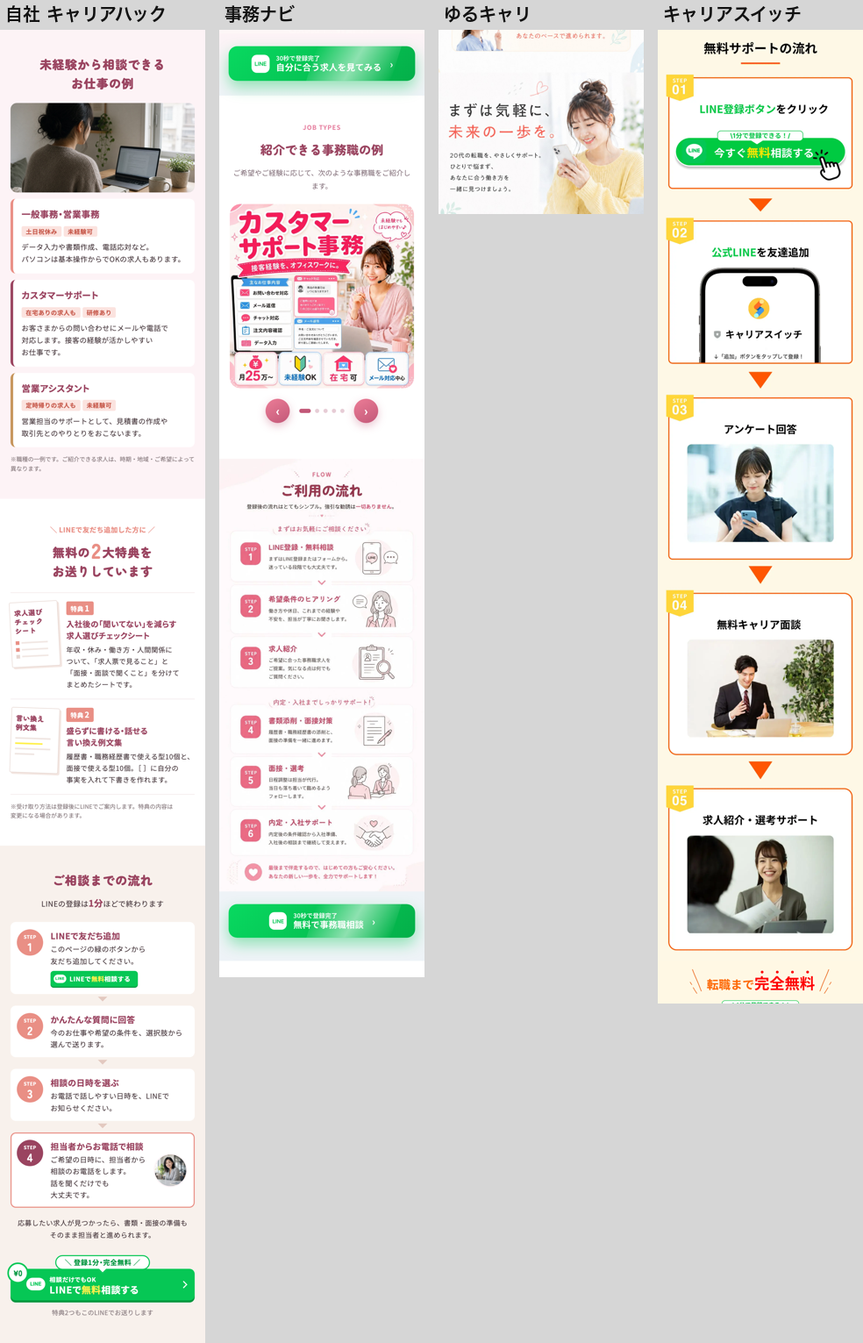
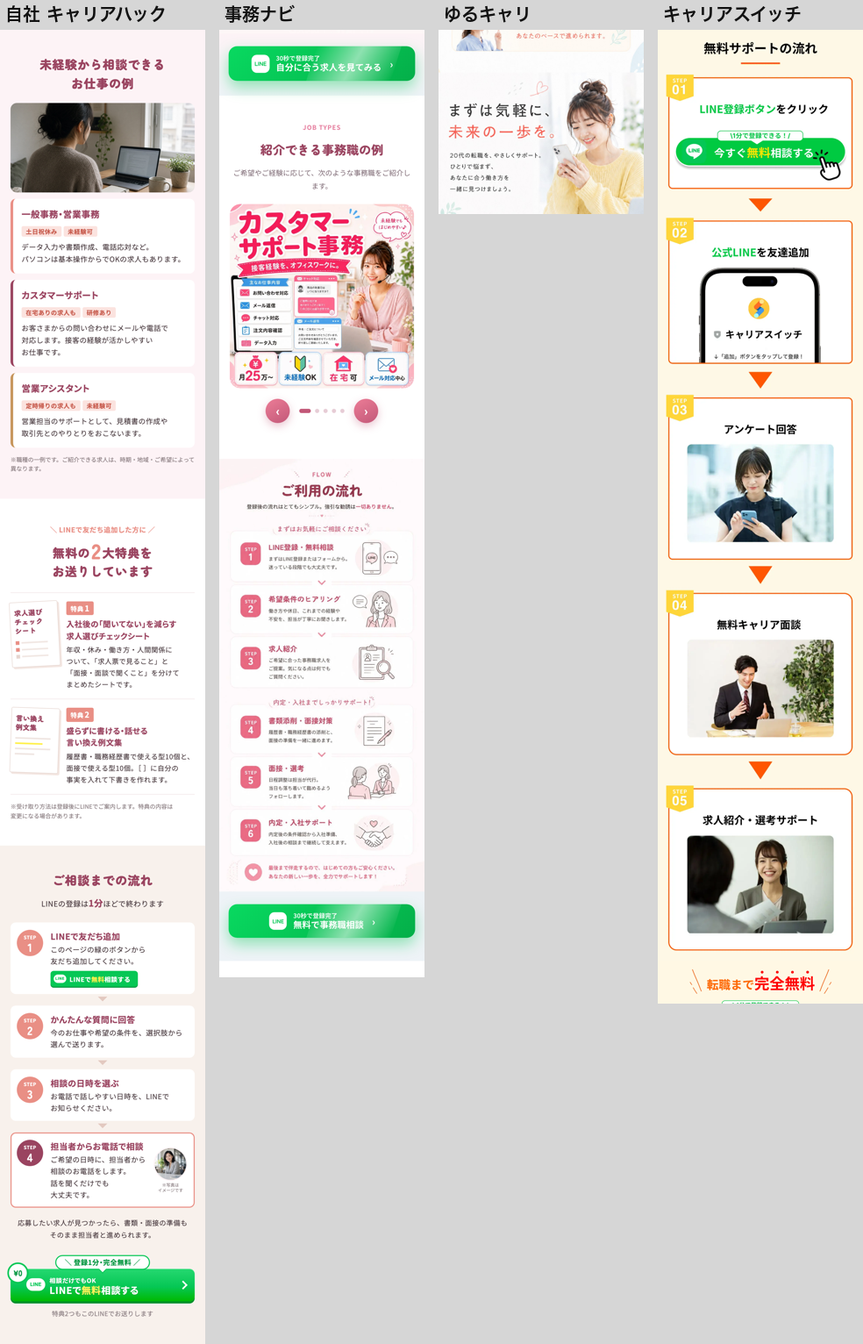
Round 4 (30/30): apply PM review — brighter gradient LINE button, ribbon medals, FV photo blended into pink, header LINE button, image notes, refreshed finals

diff --git a/docs/style.css b/docs/style.css
@@ -41,7 +41,11 @@ h1, h2, h3, .cta-tab, .btn-tx, .medals, .bubbles, .solve, .rn, .step, .g-no, sum
 .top { height: 52px; display: flex; align-items: center; justify-content: space-between; padding: 0 14px 0 16px;
   border-bottom: 1px solid var(--rule); background: #fff; }
 .logo img { width: 142px; height: auto; }
-.top-copy { font-size: 10.5px; line-height: 1.45; color: var(--rose); font-weight: 700; text-align: right; letter-spacing: .02em; }
+/* 事務ナビ型の小さいLINEボタン（実測 215x40 r14 → 自社は幅を詰めて 34px） */
+.top-btn { display: inline-flex; align-items: center; gap: 5px; height: 34px; padding: 0 12px 0 7px; border-radius: 17px;
+  background: linear-gradient(#22d36c, #06c755 60%, #03b94c); box-shadow: 0 2px 0 #029a3c; color: #fff; text-decoration: none;
+  font-size: 12.5px; font-weight: 700; letter-spacing: .02em; }
+.top-btn i { font: 900 7.5px/18px Arial, sans-serif; font-style: normal; color: var(--line); background: #fff; border-radius: 9px; width: 28px; text-align: center; }
 
 /* ---------- 見出し共通 ---------- */
 section { padding: 48px 20px; }
@@ -60,19 +64,30 @@ section { padding: 48px 20px; }
   border: 1px solid #efc9cf; border-radius: 99px; padding: 2px 16px; letter-spacing: .06em; }
 .fv-h { font-family: var(--maru); font-weight: 900; font-size: 35px; line-height: 1.32; color: var(--rose); margin-top: 8px; letter-spacing: .05em; }
 .fv-h em { color: #e0604f; font-size: 44px; background: linear-gradient(transparent 70%, var(--mk) 70%); padding: 0 2px; }
-.fv-sub { font-size: 13px; line-height: 1.6; margin-top: 6px; font-weight: 700; color: var(--ink); }
-.fv-photo { margin-top: 12px; height: 262px; overflow: hidden; clip-path: ellipse(92% 100% at 50% 100%); }
-.fv-photo img { width: 100%; height: 100%; object-fit: cover; object-position: 50% 22%; }
-.medals { display: flex; justify-content: center; gap: 8px; margin-top: -44px; position: relative; padding: 0 14px; }
-.medals li { width: 106px; height: 106px; border-radius: 50%; background: #fff; position: relative; display: flex;
-  flex-direction: column; align-items: center; justify-content: center; color: var(--rose);
-  box-shadow: 0 0 0 3px #fff, 0 0 0 4px #e8cfa6, 0 3px 8px rgba(154, 68, 96, .14); }
-.medals .ml { position: absolute; width: 16px; height: 34px; left: 6px; top: 40px; color: var(--gold); opacity: .85; }
-.medals .ml.r { left: auto; right: 6px; transform: scaleX(-1); }
+.fv-body { position: relative; height: 262px; margin-top: 2px; }
+/* 写真は淡ピンク地に溶かす（左と下をマスクでフェード、灰色の壁は乗算でピンク寄りに） */
+.fv-photo { position: absolute; right: -18px; top: -38px; width: 268px; height: 330px; z-index: 0; mix-blend-mode: multiply;
+  -webkit-mask-image: linear-gradient(to right, transparent 0, #000 34%), linear-gradient(to bottom, transparent 0, #000 22%, #000 72%, transparent 100%);
+  -webkit-mask-composite: source-in;
+  mask-image: linear-gradient(to right, transparent 0, #000 34%), linear-gradient(to bottom, transparent 0, #000 22%, #000 72%, transparent 100%);
+  mask-composite: intersect; }
+.fv-photo img { width: 100%; height: 100%; object-fit: cover; object-position: 46% 12%; }
+.fv-left { position: relative; z-index: 1; text-align: left; padding: 30px 0 0 16px; }
+.fv-lbl { display: inline-block; background: #fff; border-left: 4px solid var(--coral); font-size: 13px; font-weight: 700; padding: 1px 10px; }
+.fv-bar { display: table; margin-top: 6px; background: var(--rose); color: #fff; font-family: var(--maru); font-weight: 900; font-size: 19px;
+  line-height: 1.45; padding: 2px 12px 3px; letter-spacing: .04em; }
+.fv-bar em { color: var(--mk); }
+.fv-tags { margin-top: 12px; font-family: var(--maru); font-weight: 900; font-size: 16px; line-height: 1.75; color: var(--rose); }
+.fv-tags li::after { content: ' ✓'; color: var(--coral); }
+.medals { display: flex; justify-content: center; gap: 2px; margin-top: -46px; position: relative; z-index: 2; padding: 0 8px; }
+.medals li { position: relative; width: 120px; height: 134px; display: flex; flex-direction: column; align-items: center;
+  padding-top: 31px; color: var(--rose); }
+.medals .md { position: absolute; inset: 0; width: 120px; height: 134px; z-index: -1; filter: drop-shadow(0 2px 3px rgba(154, 68, 96, .15)); }
 .medals span { font-size: 11px; font-weight: 700; line-height: 1.2; letter-spacing: 0; color: var(--ink); }
-.medals b { font-family: var(--maru); font-weight: 900; font-size: 34px; line-height: 1.05; color: #e0604f; }
-.medals b small { font-size: 14px; }
-.medals b.s { font-size: 15px; line-height: 1.25; margin-top: 4px; }
+.medals b { font-family: var(--maru); font-weight: 900; font-size: 36px; line-height: 1.05; color: #e0604f; margin-top: 1px; }
+.medals b small { font-size: 15px; }
+.medals b.s { font-size: 16px; line-height: 1.2; margin-top: 5px; letter-spacing: 0; }
+.fv-photo-note { position: absolute; right: 8px; bottom: 52px; font-size: 9px; line-height: 1.5; color: var(--mute); z-index: 1; background: rgba(255,255,255,.85); padding: 0 5px; border-radius: 3px; }
 
 /* ---------- CTA（競合実測: 高さ60・#06C755・角丸10・下影4px） ---------- */
 .cta { padding: 0 16px; margin-top: 20px; text-align: center; }
@@ -80,20 +95,20 @@ section { padding: 48px 20px; }
   background: #fff; border: 2px solid var(--line); border-radius: 99px; padding: 1px 16px; margin-bottom: -10px; letter-spacing: .04em; }
 .cta-tab::after { content: ''; position: absolute; left: 50%; bottom: -7px; margin-left: -6px; width: 10px; height: 10px;
   background: #fff; border-right: 2px solid var(--line); border-bottom: 2px solid var(--line); transform: rotate(45deg); }
-.btn { position: relative; display: flex; align-items: center; height: 60px; padding: 4px 34px 0 74px; border-radius: 10px;
-  background: var(--line); color: #fff; text-decoration: none; box-shadow: 0 4px 0 var(--line-d); text-align: left;
-  -webkit-tap-highlight-color: transparent; }
-.btn:active { transform: translateY(3px); box-shadow: 0 1px 0 var(--line-d); }
+.btn { position: relative; display: flex; align-items: center; height: 62px; padding: 4px 34px 0 74px; border-radius: 10px;
+  background: linear-gradient(#25d870 0%, #06c755 55%, #00b900 100%); color: #fff; text-decoration: none; text-align: left;
+  box-shadow: 0 4px 0 #008f2a, inset 0 1px 0 rgba(255, 255, 255, .35); -webkit-tap-highlight-color: transparent; }
+.btn:active { transform: translateY(3px); box-shadow: 0 1px 0 #008f2a; }
 .btn-yen { position: absolute; left: -6px; top: -12px; width: 40px; height: 40px; border-radius: 50%; background: #fff;
   border: 3px solid var(--line); color: var(--line-d); font: 900 15px/34px var(--maru); text-align: center; letter-spacing: 0; }
 .btn-ic { position: absolute; left: 30px; top: 50%; margin-top: -13px; width: 36px; height: 24px; border-radius: 12px;
   background: #fff; color: var(--line); font: 900 9.5px/24px Arial, sans-serif; text-align: center; letter-spacing: 0; }
 .btn-ic::after { content: ''; position: absolute; left: 7px; bottom: -4px; border: 4px solid transparent; border-top: 5px solid #fff; border-left-width: 3px; }
-.btn-tx { font-size: 18px; font-weight: 700; line-height: 1.25; letter-spacing: .04em; }
+.btn-tx { font-size: 18px; font-weight: 900; text-shadow: 0 1px 0 rgba(0, 110, 40, .35); line-height: 1.25; letter-spacing: .04em; }
 .btn-tx small { display: block; font-size: 11.5px; font-weight: 700; letter-spacing: .06em; }
-.btn-tx em { color: var(--mk); }
-.btn-ar { position: absolute; right: 16px; top: 50%; width: 10px; height: 10px; margin-top: -5px;
-  border-top: 2.5px solid #fff; border-right: 2.5px solid #fff; transform: rotate(45deg); }
+.btn-tx em { color: #fff35a; }
+.btn-ar { position: absolute; right: 16px; top: 50%; width: 12px; height: 12px; margin-top: -6px;
+  border-top: 3.5px solid #fff; border-right: 3.5px solid #fff; transform: rotate(45deg); }
 .cta-note { font-size: 12px; color: var(--mute); margin-top: 12px; letter-spacing: .02em; }
 .cta-wrap { background: var(--beige); padding: 36px 0 38px; text-align: center; }
 .cta-lead { font-family: var(--maru); font-weight: 900; font-size: 20px; color: var(--rose); }
@@ -112,9 +127,9 @@ section { padding: 48px 20px; }
 .bubbles .b3 { margin-right: 6px; } .bubbles .b4 { margin-left: 6px; }
 .bubbles .b5, .bubbles .b6 { background: var(--pink); }
 .bubbles .b5::after, .bubbles .b6::after { transform: rotate(-135deg); bottom: auto; top: -7px; }
-.bubbles .b3, .bubbles .b4 { margin-bottom: 118px; }
+.bubbles .b3, .bubbles .b4 { margin-bottom: 136px; }
 .bubbles b { color: var(--rose); }
-.worry-face { position: absolute; left: 50%; top: 50%; width: 132px; height: 132px; margin: -34px 0 0 -66px; border-radius: 50%;
+.worry-face { position: absolute; left: 50%; top: 50%; width: 132px; height: 132px; margin: -22px 0 0 -66px; border-radius: 50%;
   overflow: hidden; border: 4px solid #fff; box-shadow: 0 0 0 2px #efc9cf; }
 .worry-face img { width: 100%; height: 100%; object-fit: cover; object-position: 50% 30%; }
 .solve { margin: 34px 0 0; padding: 20px 10px 18px; border: 3px double #efc9cf; border-radius: 14px; text-align: center;
@@ -197,7 +212,9 @@ section { padding: 48px 20px; }
   background: var(--line); color: #fff; font-size: 12px; font-weight: 700; box-shadow: 0 2px 0 var(--line-d); }
 .mini-btn i { font: 900 7px/16px Arial, sans-serif; color: var(--line); background: #fff; border-radius: 8px; width: 24px; text-align: center; font-style: normal; }
 .mini-btn em { color: var(--mk); }
-.flow-list .adv { flex: none; width: 64px; height: 64px; border-radius: 50%; object-fit: cover; object-position: 50% 25%; align-self: center; border: 2px solid var(--pink); }
+.flow-list .adv img { flex: none; width: 64px; height: 64px; border-radius: 50%; object-fit: cover; object-position: 50% 25%; align-self: center; border: 2px solid var(--pink); }
+.flow-list .adv { flex: none; width: 64px; align-self: center; text-align: center; }
+.flow-list .adv figcaption { font-size: 8px; color: var(--mute); line-height: 1.3; margin-top: 3px; letter-spacing: 0; }
 .flow-after { font-size: 13px; text-align: center; margin-top: 18px; }
 .flow .cta { margin-top: 26px; padding: 0; }
 
@@ -248,3 +265,4 @@ section { padding: 48px 20px; }
   body { background: #f4ece8 radial-gradient(#efe0dc 1px, transparent 1.2px) 0 0 / 18px 18px; }
   .page { box-shadow: 0 0 0 1px #eadcd8; }
 }
+.medals b.xs { font-size: 14px; }

diff --git a/docs/index.html b/docs/index.html
@@ -26,24 +26,39 @@
 <body>
 <svg width="0" height="0" style="position:absolute" aria-hidden="true">
   <symbol id="laurel" viewBox="4 4 52 96"><path d="M42 93A46 46 0 0 1 40 11" fill="none" stroke="currentColor" stroke-width="2"/><g fill="currentColor"><g transform="rotate(-64 62 52)"><path d="M16 58c-9-4-10-13-6-19c6 3 8 11 6 19z"/><path d="M16 58c9-4 10-13 6-19c-6 3-8 11-6 19z" opacity=".8"/></g><g transform="rotate(-46 62 52)"><path d="M16 58c-9-4-10-13-6-19c6 3 8 11 6 19z"/><path d="M16 58c9-4 10-13 6-19c-6 3-8 11-6 19z" opacity=".8"/></g><g transform="rotate(-28 62 52)"><path d="M16 58c-9-4-10-13-6-19c6 3 8 11 6 19z"/><path d="M16 58c9-4 10-13 6-19c-6 3-8 11-6 19z" opacity=".8"/></g><g transform="rotate(-10 62 52)"><path d="M16 58c-9-4-10-13-6-19c6 3 8 11 6 19z"/><path d="M16 58c9-4 10-13 6-19c-6 3-8 11-6 19z" opacity=".8"/></g><g transform="rotate(8 62 52)"><path d="M16 58c-9-4-10-13-6-19c6 3 8 11 6 19z"/><path d="M16 58c9-4 10-13 6-19c-6 3-8 11-6 19z" opacity=".8"/></g><g transform="rotate(26 62 52)"><path d="M16 58c-9-4-10-13-6-19c6 3 8 11 6 19z"/><path d="M16 58c9-4 10-13 6-19c-6 3-8 11-6 19z" opacity=".8"/></g><g transform="rotate(44 62 52)"><path d="M16 58c-9-4-10-13-6-19c6 3 8 11 6 19z"/><path d="M16 58c9-4 10-13 6-19c-6 3-8 11-6 19z" opacity=".8"/></g></g></symbol>
+  <symbol id="medal" viewBox="0 0 120 134">
+    <path d="M40 92 L26 132 L36 126 L42 134 L54 98Z" fill="#d9786e"/><path d="M80 92 L94 132 L84 126 L78 134 L66 98Z" fill="#e98f85"/>
+    <path d="M60.0 4.0 L61.5 5.0 L62.8 7.3 L64.1 9.6 L65.3 10.7 L66.8 9.9 L68.5 7.9 L70.4 6.0 L72.0 5.4 L73.3 6.6 L74.1 9.2 L74.7 11.8 L75.7 13.1 L77.3 12.7 L79.4 11.1 L81.7 9.6 L83.4 9.3 L84.4 10.9 L84.6 13.5 L84.7 16.2 L85.3 17.7 L87.0 17.6 L89.4 16.6 L91.9 15.6 L93.7 15.8 L94.2 17.5 L93.9 20.1 L93.3 22.7 L93.7 24.3 L95.3 24.7 L97.9 24.1 L100.5 23.8 L102.2 24.3 L102.4 26.1 L101.4 28.6 L100.4 31.0 L100.3 32.7 L101.8 33.3 L104.5 33.4 L107.1 33.6 L108.7 34.6 L108.4 36.3 L106.9 38.6 L105.3 40.7 L104.9 42.3 L106.2 43.3 L108.8 43.9 L111.4 44.7 L112.6 46.0 L112.0 47.6 L110.1 49.5 L108.1 51.2 L107.3 52.7 L108.4 53.9 L110.7 55.2 L113.0 56.5 L114.0 58.0 L113.0 59.5 L110.7 60.8 L108.4 62.1 L107.3 63.3 L108.1 64.8 L110.1 66.5 L112.0 68.4 L112.6 70.0 L111.4 71.3 L108.8 72.1 L106.2 72.7 L104.9 73.7 L105.3 75.3 L106.9 77.4 L108.4 79.7 L108.7 81.4 L107.1 82.4 L104.5 82.6 L101.8 82.7 L100.3 83.3 L100.4 85.0 L101.4 87.4 L102.4 89.9 L102.2 91.7 L100.5 92.2 L97.9 91.9 L95.3 91.3 L93.7 91.7 L93.3 93.3 L93.9 95.9 L94.2 98.5 L93.7 100.2 L91.9 100.4 L89.4 99.4 L87.0 98.4 L85.3 98.3 L84.7 99.8 L84.6 102.5 L84.4 105.1 L83.4 106.7 L81.7 106.4 L79.4 104.9 L77.3 103.3 L75.7 102.9 L74.7 104.2 L74.1 106.8 L73.3 109.4 L72.0 110.6 L70.4 110.0 L68.5 108.1 L66.8 106.1 L65.3 105.3 L64.1 106.4 L62.8 108.7 L61.5 111.0 L60.0 112.0 L58.5 111.0 L57.2 108.7 L55.9 106.4 L54.7 105.3 L53.2 106.1 L51.5 108.1 L49.6 110.0 L48.0 110.6 L46.7 109.4 L45.9 106.8 L45.3 104.2 L44.3 102.9 L42.7 103.3 L40.6 104.9 L38.3 106.4 L36.6 106.7 L35.6 105.1 L35.4 102.5 L35.3 99.8 L34.7 98.3 L33.0 98.4 L30.6 99.4 L28.1 100.4 L26.3 100.2 L25.8 98.5 L26.1 95.9 L26.7 93.3 L26.3 91.7 L24.7 91.3 L22.1 91.9 L19.5 92.2 L17.8 91.7 L17.6 89.9 L18.6 87.4 L19.6 85.0 L19.7 83.3 L18.2 82.7 L15.5 82.6 L12.9 82.4 L11.3 81.4 L11.6 79.7 L13.1 77.4 L14.7 75.3 L15.1 73.7 L13.8 72.7 L11.2 72.1 L8.6 71.3 L7.4 70.0 L8.0 68.4 L9.9 66.5 L11.9 64.8 L12.7 63.3 L11.6 62.1 L9.3 60.8 L7.0 59.5 L6.0 58.0 L7.0 56.5 L9.3 55.2 L11.6 53.9 L12.7 52.7 L11.9 51.2 L9.9 49.5 L8.0 47.6 L7.4 46.0 L8.6 44.7 L11.2 43.9 L13.8 43.3 L15.1 42.3 L14.7 40.7 L13.1 38.6 L11.6 36.3 L11.3 34.6 L12.9 33.6 L15.5 33.4 L18.2 33.3 L19.7 32.7 L19.6 31.0 L18.6 28.6 L17.6 26.1 L17.8 24.3 L19.5 23.8 L22.1 24.1 L24.7 24.7 L26.3 24.3 L26.7 22.7 L26.1 20.1 L25.8 17.5 L26.3 15.8 L28.1 15.6 L30.6 16.6 L33.0 17.6 L34.7 17.7 L35.3 16.2 L35.4 13.5 L35.6 10.9 L36.6 9.3 L38.3 9.6 L40.6 11.1 L42.7 12.7 L44.3 13.1 L45.3 11.8 L45.9 9.2 L46.7 6.6 L48.0 5.4 L49.6 6.0 L51.5 7.9 L53.2 9.9 L54.7 10.7 L55.9 9.6 L57.2 7.3 L58.5 5.0Z" fill="#f6d3c6"/>
+    <circle cx="60" cy="58" r="46" fill="#fff" stroke="#c9a274" stroke-width="2.4"/>
+    <circle cx="60" cy="58" r="41.5" fill="none" stroke="#ecd9bd" stroke-width="1"/>
+    <g fill="#c9a274" transform="translate(60 17)"><path d="M0-4.5l1.3 2.8 3 .4-2.2 2.1.6 3L0 2.4-2.7 3.8l.6-3-2.2-2.1 3-.4z"/></g>
+  </symbol>
 </svg>
 <main class="page">
 
 <header class="top">
   <p class="logo"><img src="img/logo.svg" alt="キャリアハック" width="185" height="34"></p>
-  <p class="top-copy">未経験・第二新卒の<br>20代女性の転職相談</p>
+  <a class="top-btn" href="#" data-cta><i aria-hidden="true">LINE</i>で無料相談</a>
 </header>
 
 <!-- ============ FV ============ -->
 <section class="fv">
   <p class="fv-pill">20代・未経験・第二新卒OK</p>
   <h1 class="fv-h">はじめての転職を<br><em>無料</em>で相談。</h1>
-  <p class="fv-sub">事務・在宅・土日休みなど、<br>希望に合う求人を担当者がいっしょに探します</p>
-  <div class="fv-photo"><img src="img/gen_fv_woman.jpg" alt="スマホを持って窓辺に立つ20代の女性" width="864" height="1152" fetchpriority="high"></div>
+  <div class="fv-body">
+    <div class="fv-photo"><img src="img/gen_fv_woman.jpg" alt="スマホを持って窓辺に立つ20代の女性" width="864" height="1152" fetchpriority="high"></div>
+    <div class="fv-left">
+      <p class="fv-lbl">専任の担当者が</p>
+      <p class="fv-bar">求人さがしから</p>
+      <p class="fv-bar">面接まで<em>伴走</em></p>
+      <ul class="fv-tags"><li>#事務</li><li>#在宅</li><li>#土日休み</li></ul>
+    </div>
+    <p class="fv-photo-note">※写真はイメージです</p>
+  </div>
   <ul class="medals">
-    <li><svg class="ml" aria-hidden="true"><use href="#laurel"/></svg><svg class="ml r" aria-hidden="true"><use href="#laurel"/></svg><span>相談料</span><b>0<small>円</small></b></li>
-    <li><svg class="ml" aria-hidden="true"><use href="#laurel"/></svg><svg class="ml r" aria-hidden="true"><use href="#laurel"/></svg><span>経験・資格</span><b class="s">なしで<br>OK</b></li>
-    <li><svg class="ml" aria-hidden="true"><use href="#laurel"/></svg><svg class="ml r" aria-hidden="true"><use href="#laurel"/></svg><span>相談の日時</span><b class="s">選べます</b></li>
+    <li><svg class="md" aria-hidden="true"><use href="#medal"/></svg><span>相談料</span><b>0<small>円</small></b></li>
+    <li><svg class="md" aria-hidden="true"><use href="#medal"/></svg><span>経験・資格</span><b class="s">なしでも<br>OK</b></li>
+    <li><svg class="md" aria-hidden="true"><use href="#medal"/></svg><span>相談の日時</span><b class="s xs">ご希望に<br>合わせます</b></li>
   </ul>
   <div class="cta" id="cta-fv">
     <p class="cta-tab">＼ 登録1分・完全無料 ／</p>
@@ -108,15 +123,6 @@
   </article>
 </section>
 
-<div class="cta-wrap">
-  <p class="cta-lead">相談は、<em>話を聞くだけでも</em>OK</p>
-  <div class="cta">
-    <p class="cta-tab">＼ 登録1分・完全無料 ／</p>
-    <a class="btn" href="#" data-cta><span class="btn-yen">¥0</span><span class="btn-ic" aria-hidden="true">LINE</span><span class="btn-tx"><small>相談だけでもOK</small>LINEで<em>無料</em>相談する</span><i class="btn-ar" aria-hidden="true"></i></a>
-    <p class="cta-note">無理に応募をすすめることはありません</p>
-  </div>
-</div>
-
 <!-- ============ 職種の例 ============ -->
 <section class="jobs">
   <h2 class="sec-h">未経験から相談できる<br>お仕事の例</h2>
@@ -148,7 +154,7 @@
     <li><p class="step">STEP<b>1</b></p><div><h3>LINEで友だち追加</h3><p>このページの緑のボタンから友だち追加してください。</p><span class="mini-btn" aria-hidden="true"><i>LINE</i><span>LINEで<em>無料</em>相談する</span></span></div></li>
     <li><p class="step">STEP<b>2</b></p><div><h3>かんたんな質問に回答</h3><p>今のお仕事や希望の条件を、選択肢から選んで送ります。</p></div></li>
     <li><p class="step">STEP<b>3</b></p><div><h3>相談の日時を選ぶ</h3><p>お電話で話しやすい日時を、LINEでお知らせください。</p></div></li>
-    <li class="last"><p class="step">STEP<b>4</b></p><div><h3>担当者からお電話で相談</h3><p>ご希望の日時に、担当者から相談のお電話をします。<span class="nw">話を聞くだけでも</span>大丈夫です。</p></div><img class="adv" src="img/gen_advisor.jpg" alt="相談を担当するキャリアアドバイザーのイメージ" width="1024" height="1024" loading="lazy"></li>
+    <li class="last"><p class="step">STEP<b>4</b></p><div><h3>担当者からお電話で相談</h3><p>ご希望の日時に、担当者から相談のお電話をします。<span class="nw">話を聞くだけでも</span>大丈夫です。</p></div><figure class="adv"><img src="img/gen_advisor.jpg" alt="相談を担当するキャリアアドバイザーのイメージ" width="1024" height="1024" loading="lazy"><figcaption>※写真は<br>イメージです</figcaption></figure></li>
   </ol>
   <p class="flow-after">応募したい求人が見つかったら、書類・面接の準備も<br>そのまま担当者と進められます。</p>
   <div class="cta">

diff --git a/qc/score_round4.md b/qc/score_round4.md
@@ -1,0 +1,48 @@
+# Round 4 採点（PMレビュー反映・厳しめ再採点）— 30/30
+前提: PM_FEEDBACK.md の6点は Round3 時点で FAIL 扱いとした（A1・D3・E2・H2・D4・G2 に相当）。下表はそれを直したあとの判定。
+比較画像: compare/round4_fv.png, round4_button.png, round4_mid.png, round4_flow_gift.png, round4_faq_footer.png, round4_sticky.png, logo_header_round4.png（final_*.png は同じ撮影から作成）
+機械チェック: shots/r4_{riko,mina}_{390,1280}/check.json → scrollWidth 390/1280、console error 0、CTAリンク 5（ヘッダー/FV/流れ後/最終/追従）、href は riko/mina それぞれの lin.ee。HTMLタグ対応: 未閉じ0・不一致0。電話NG語 grep 0件。config.js 差分なし。
+
+## Round3 → Round4 の修正（PM指摘との対応）
+| PM指摘 | Round3判定(再評価) | 修正 | Round4 |
+|---|---|---|---|
+| 1 FVボタンが暗く平板 | A1 FAIL | 上下グラデ #25D870→#06C755→#00B900、下影 0 4px 0 #008F2A、上端に1pxの白ハイライト、高さ62、文字18px/900（「無料」だけ黄 #FFF35A）、右矢印を太く(3.5px)。round4_button でキャリカミ/キャリアスイッチ/事務ナビと明度が同等 | PASS |
+| 2 メダルが白丸で弱い | D3 FAIL（FVの訴求部品が競合より見劣り） | 自作SVGメダル（波形ロゼット #F6D3C6＋ゴールドベージュ #C9A274 の二重リング＋星＋コーラルのリボン2本）。文言は 0円 / なしでもOK / ご希望に合わせます（数字は0円のみ） | PASS |
+| 3 写真が浮く | E2 FAIL（FVのまとまり） | 人物を右下に大きく配置（268×330）。左・上・下をグラデマスクでフェードし、乗算で淡ピンク地に溶かした。左に「専任の担当者が／求人さがしから／面接まで伴走」の帯と #タグ（キャリカミ/キャリアスイッチ型）。390×844 に キャッチ＋写真＋メダル＋CTA（ボタン下端 y=702） | PASS |
+| 4 ヘッダーにLINEボタン | H2 FAIL（事務ナビ型の右ボタンなし） | 右に小さいLINEボタン「LINEで無料相談」（34px・ピル・同じ緑グラデ）。CTA総数を5に抑えるため、理由セクション後の中間CTAを削除（中盤は追従CTAが担う） | PASS |
+| 5 生成写真に注記 | D4 FAIL | FV写真と STEP4 担当者写真に「※写真はイメージです」を小さく添えた（フッターにも一括注記あり） | PASS |
+| 6 final/DONE/push | G2 FAIL | final/ を r4 で撮り直し、compare/final_*.png・DONE.md を更新 | PASS |
+
+## 30項目
+| # | 判定 | 根拠 |
+|---|---|---|
+| A1 | PASS | round4_button（上記） |
+| A2 | PASS | 「＼ 登録1分・完全無料 ／」タブ吹き出し＋下に「ご希望の日時に、担当者から相談のお電話をします」 |
+| A3 | PASS | round4_sticky: FVボタン通過後に出現、最終CTA中は格納、フッター下余白で本文を隠さない |
+| A4 | PASS | ヘッダー・FV・流れ後・最終・追従＝合計5（上限内） |
+| A5 | PASS | グラデ＋下影のみ（競合と同じ）。グロー・ぼかし影・絵文字・ホバー浮きなし |
+| B1 | PASS | Noto Sans JP / Zen Maru Gothic（競合実測） |
+| B2 | PASS | 400/700/900、本文 lh1.75 |
+| B3 | PASS | マーカー・色文字・数字だけ大 |
+| B4 | PASS | STEP4 の「お電話で／相談」改行は注記幅の固定で解消。riko/mina 全ビューポート目視 |
+| C1 | PASS | 実測パレット内（メダルのベージュ/コーラルも同系） |
+| C2 | PASS | 紫青グラデ・ネオン・全面グラデなし |
+| C3 | PASS | 白/薄ピンク/ベージュの交互（中間CTA削除後も 理由=白→職種=薄ピンク で交互維持） |
+| D1 | PASS | 線画アイコン0（✓は文字） |
+| D2 | PASS | 絵文字0 |
+| D3 | PASS | メダルはリボン付き装飾枠、理由カードは形違い、STEP4 だけ強調 |
+| D4 | PASS | 既存素材＋オーナー指示の生成写真、イメージ注記あり。偽ロゴなし |
+| E1 | PASS | 左右20px・セクション48px |
+| E2 | PASS | round4_fv |
+| E3 | PASS | 悩み→解決→できること→理由→職種→特典→流れ→FAQ→CTA |
+| E4 | PASS | 7問アコーディオン |
+| F1 | PASS | NG語0、電話相談を明記しやわらかい表現 |
+| F2 | PASS | 数字は0円と法令出典※1のみ |
+| F3 | PASS | |
+| F4 | PASS | config.js 差分なし、riko/mina 正常 |
+| G1 | PASS | compare/round4_*・final_* |
+| G2 | PASS | final/{riko,mina}_{390,1280}_full.png 崩れなし |
+| H1 | PASS | logo_header_round4 |
+| H2 | PASS | 52px白ヘッダー＋右LINEボタン（事務ナビ型） |
+| H3 | PASS | パス化SVG |
+| H4 | PASS | favicon/ヘッダー/フッターで同ロゴ |

diff --git a/qc/DONE.md b/qc/DONE.md
@@ -1,9 +1,16 @@
 # DONE — career-hack-lp「これAIなん？」仕上げ
-最終スコア: **30/30 PASS**（score_round3.md）。経過: Round1 29/30 → Round2 29/30 → Round3 30/30（Round1・2 の FAIL は G2 の final 未作成のみ）。
+最終スコア: **30/30 PASS**（score_round4.md）。経過: Round1 29/30 → Round2 29/30 → Round3 30/30 → PMレビューで6点を FAIL 扱い（実質24/30）→ Round4 30/30。
+
+## Round4（PMレビュー反映）
+- FVのLINEボタン: 明るい上下グラデ（#25D870→#06C755→#00B900）＋下影＋太い右矢印、高さ62・18px/900・「無料」だけ黄。
+- FVメダル: 自作SVGの装飾枠（波形ロゼット＋ゴールドベージュの二重リング＋星＋コーラルのリボン）。
+- FV写真: 人物を右下に大きく配置し、グラデマスクと乗算で淡ピンク地に溶かした。左に「専任の担当者が／求人さがしから／面接まで伴走」の帯と #タグ。1画面（ボタン下端 y=702）に収まる。
+- ヘッダー右に小さいLINEボタン。CTAの合計を5に保つため、理由セクション後の中間CTAは削除（中盤は追従CTAがカバー）。
+- 生成写真（FV・STEP4担当者）に「※写真はイメージです」を添えた。
 
 ## 主な変更
 - **方向性**: 20代女性向けに統一（riko/mina の集客先、調査 BRIEF の前提）。骨格は事務ナビ・ゆるキャリ、ボタンはキャリカミ・キャリアスイッチ寄せ。
-- **ボタン**: 高さ60・#06C755・角丸10・下影 0 4px 0。「¥0」丸＋LINE吹き出し＋「›」、上にタブ吹き出し「＼ 登録1分・完全無料 ／」、下にグレー注記。CTAは本文4＋追従1。追従は FV 通過後に出て、最終CTA表示中は引っ込む。
+- **ボタン**（Round4で更新）: 高さ62・緑の上下グラデ・角丸10・下影 0 4px 0。「¥0」丸＋LINE吹き出し＋「›」、上にタブ吹き出し「＼ 登録1分・完全無料 ／」、下にグレー注記。CTAはヘッダー・FV・流れ後・最終＋追従の計5。追従は FV 通過後に出て、最終CTA表示中は引っ込む。
 - **書体・色**: 本文 Noto Sans JP 400（15px / lh1.75）、見出し Zen Maru Gothic 900。Oswald は廃止。色はローズ #9A4460・コーラル #E98F85・薄ピンク #FDF3F6・ベージュ #F8F1EC・マーカー黄。いずれも競合実測値。
 - **ロゴ**: 吹き出し＋上り階段の独自マークに、Zen Maru Gothic の字形をパス化した文字を組み合わせた。docs/img/logo.svg / logo-white.svg / logo-mark.svg（favicon）。旧ロゴの棒グラフ型はキャリカミに似ていたため廃止。
 - **電話表現**: 「電話なし」「電話は0回」「電話・来社なし」を全削除。「ご希望の日時に、担当者から相談のお電話をします」「話を聞くだけでも大丈夫」「無理に応募をすすめることはありません」に統一。流れの STEP3〜4 と FAQ で、電話で相談することを明記。
@@ -21,8 +28,8 @@
 7. X 広告ライブラリは EU 配信分しか見られず、日本の広告は確認できない。x_ads_research.md は検索で見つけた SNS 広告型 LP 6件の実測。
 
 ## 比較画像
-- 最終: compare/final_fv.png, final_button.png, final_mid.png, final_flow_gift.png, final_faq_footer.png, final_sticky.png, final_logo_header.png
-- 経過: compare/round1_*.png, round2_*.png, logo_header_round1.png, logo_header_round2.png
+- 最終（Round4撮影）: compare/final_fv.png, final_button.png, final_mid.png, final_flow_gift.png, final_faq_footer.png, final_sticky.png, final_logo_header.png
+- 経過: compare/round1_*.png, round2_*.png, round4_*.png, logo_header_round1/2/4.png
 - 最終スクショ: final/riko_390_full.png, mina_390_full.png, riko_1280_full.png, mina_1280_full.png（＋各 _fv, _390_sticky）
 
 ## 調査資料
